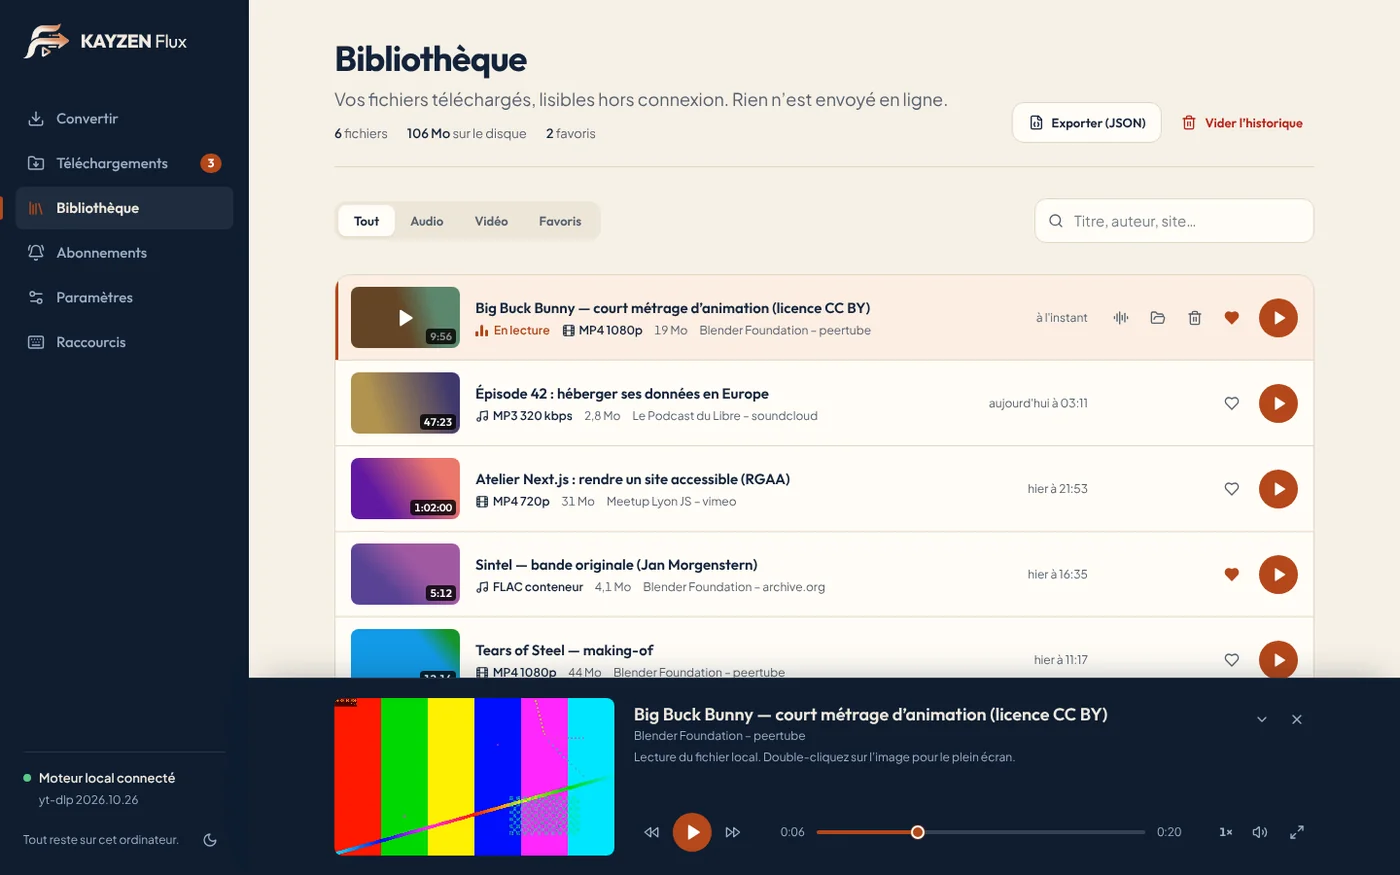
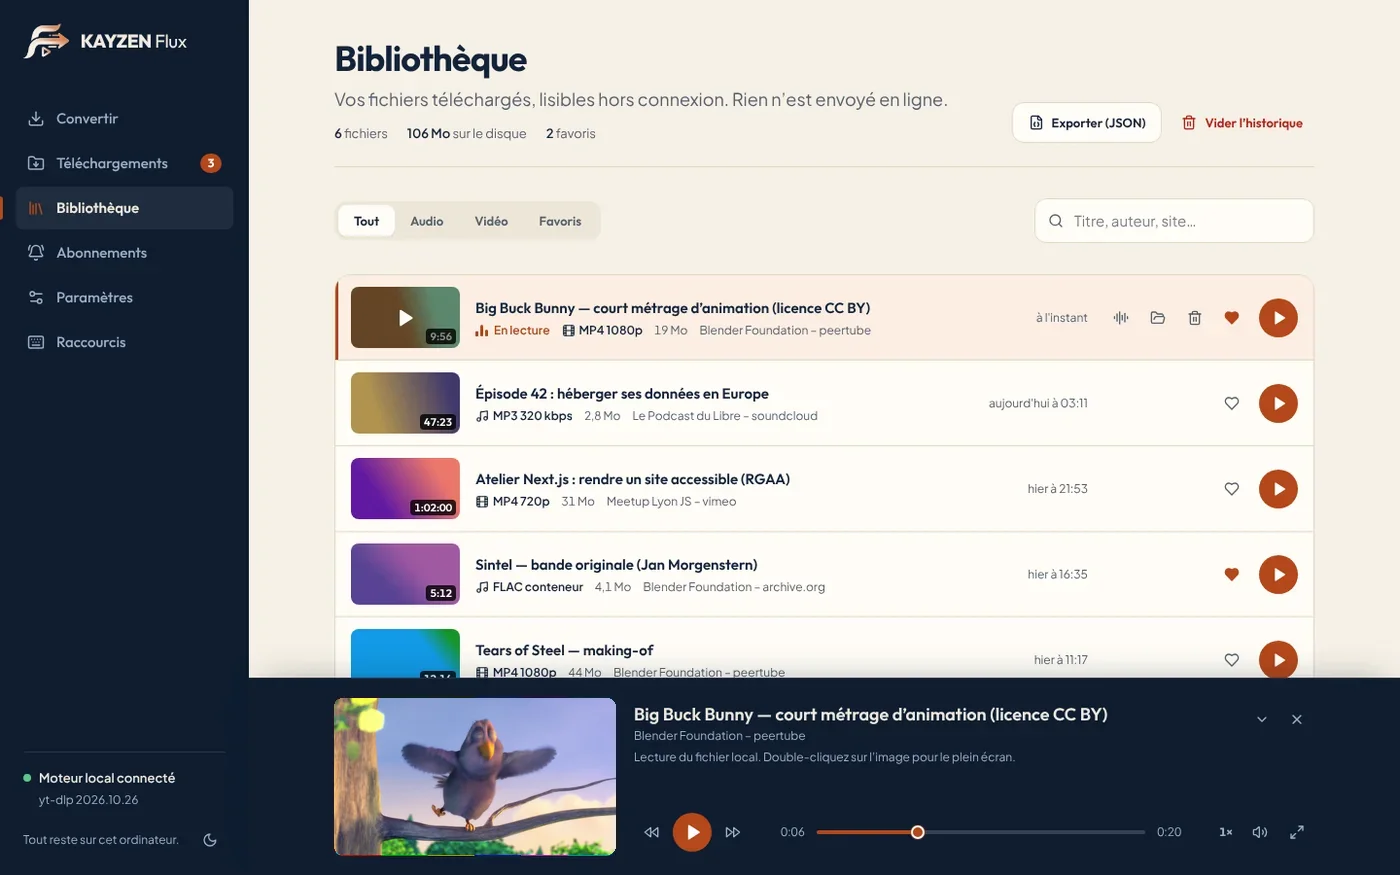
site: la mire de test de la capture « Bibliothèque » est remplacée par une image de Big Buck Bunny (CC BY 3.0, crédit ajouté)
Claude-Session: https://claude.ai/code/session_01NsGyKwsRybbPiAeuLKR53X

Changed region(s): [[0.215, 0.7714, 0.4607, 0.9874]]

diff --git a/apps/site/public/mentions-legales.html b/apps/site/public/mentions-legales.html
@@ -41,8 +41,11 @@
 <h2>Propriété intellectuelle</h2>
 <p>Le code source de l'application KAYZEN Flux est distribué sous licence MIT (<a href="https://github.com/kayzen-lyon/kayzenflux">github.com/kayzen-lyon/kayzenflux</a>) : vous pouvez le réutiliser dans les conditions de cette licence. Le nom et le logo KAYZEN Flux, ainsi que les textes et visuels du site, restent la propriété de l'éditeur. L'application s'appuie sur des logiciels libres (notamment yt-dlp, FFmpeg et Deno) distribués sous leurs propres licences, listées dans l'application (menu Aide &gt; Licences des composants).</p>
 <p>Les noms de plateformes ou de services éventuellement cités appartiennent à leurs propriétaires respectifs. KAYZEN Flux n'est affilié à aucune de ces plateformes, ni approuvé par elles.</p>
+<h2>Crédits</h2>
+<p>L'image affichée dans le lecteur de la capture « Bibliothèque » est extraite du film <cite>Big Buck Bunny</cite> : (c) copyright Blender Foundation | <a href="https://www.bigbuckbunny.org">www.bigbuckbunny.org</a>, sous licence <a href="https://creativecommons.org/licenses/by/3.0/deed.fr">Creative Commons Attribution 3.0</a>. Image redimensionnée et intégrée à la capture d'écran.</p>
+
 <h2>Signalement</h2>
-<p>Pour signaler un contenu ou un usage illicite lié au site ou à l'application : <a href="mailto:contact@kayzen-lyon.fr?subject=Signalement">contact@kayzen-lyon.fr</a>. Le site n'héberge aucun contenu audio ou vidéo de tiers.</p>
+<p>Pour signaler un contenu ou un usage illicite lié au site ou à l'application : <a href="mailto:contact@kayzen-lyon.fr?subject=Signalement">contact@kayzen-lyon.fr</a>. Le site n'héberge aucun contenu audio ou vidéo de tiers, hormis l'image sous licence libre citée dans les crédits.</p>
 </main>
 <footer class="bottom on-dark"><div class="wrap"><a class="logo" href="/"><img src="/assets/logo-mark-light.png" alt="" width="36" height="28" />KAYZEN <span>Flux</span></a><nav aria-label="Informations légales"><a href="/mentions-legales">Mentions légales</a><a href="/cgu">CGU</a><a href="/confidentialite">Confidentialité</a><a href="mailto:contact@kayzen-lyon.fr">Contact</a></nav><p class="copy">© <span data-year>2026</span> KAYZEN, Lyon.</p></div></footer>
 </body>
